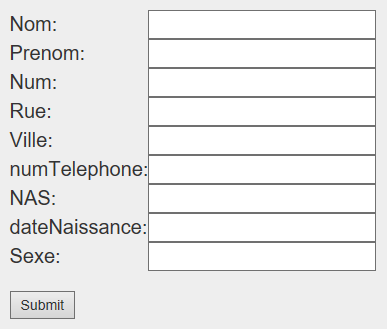
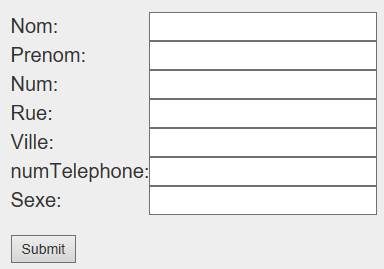
123453414123543154

diff --git a/Projet/WebContent/Forms/ModPat.html b/Projet/WebContent/Forms/ModPat.html
@@ -58,8 +58,6 @@ if(key !=null){%>
         			<tr><td>Rue:</td>	 			<td><input type="text" name="ModPatRue"> </td></tr>
         			<tr><td>Ville:</td>	 			<td><input type="text" name="ModPatVille"> </td></tr>
         			<tr><td>numTelephone:</td>	 	<td><input type="text" name="ModPatNumTel"> </td></tr>
-        			<tr><td>NAS:</td>	 			<td><input type="text" name="ModPatNas"> </td></tr>
-        			<tr><td>dateNaissance:</td>	    <td><input type="text" name="ModPatDateN"> </td></tr>
         			<tr><td>Sexe:</td>	 			<td><input type="text" name="ModPatSexe"> </td></tr>
             		</table>
             		<br>
